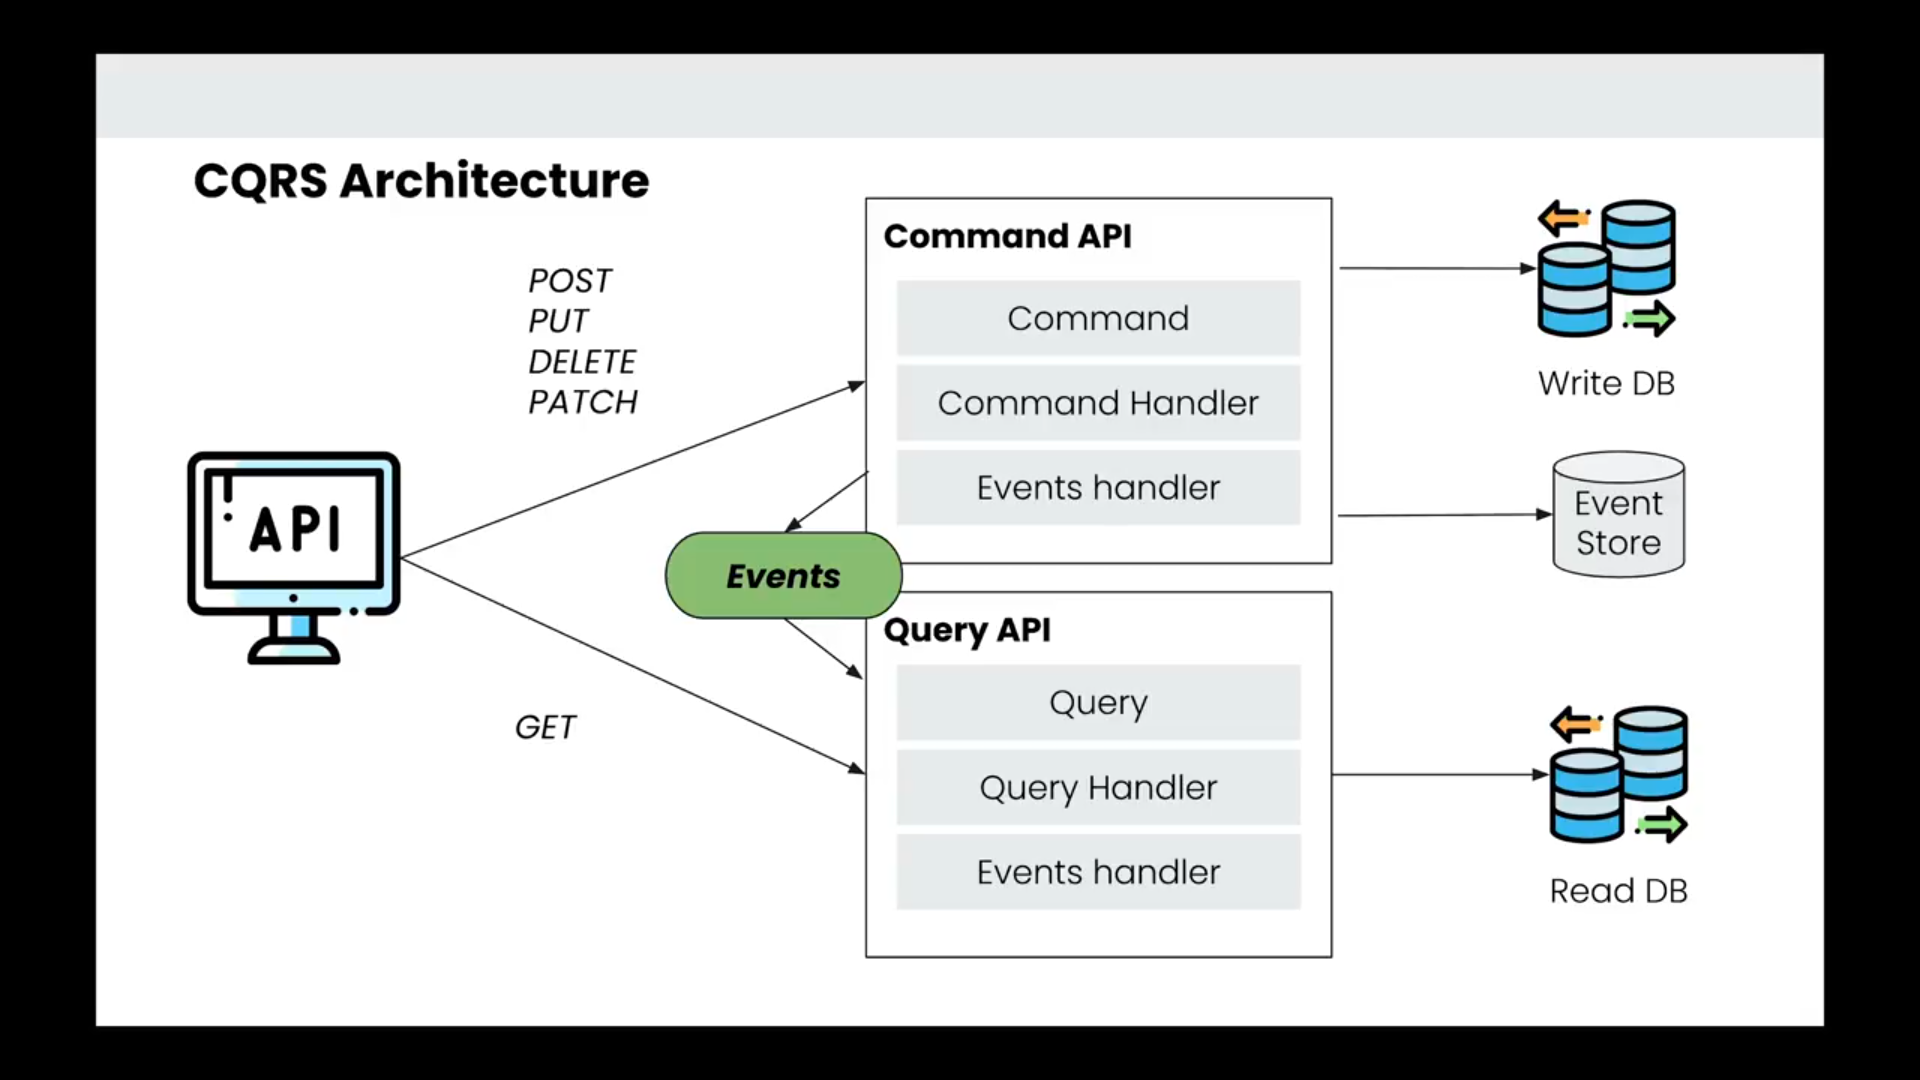
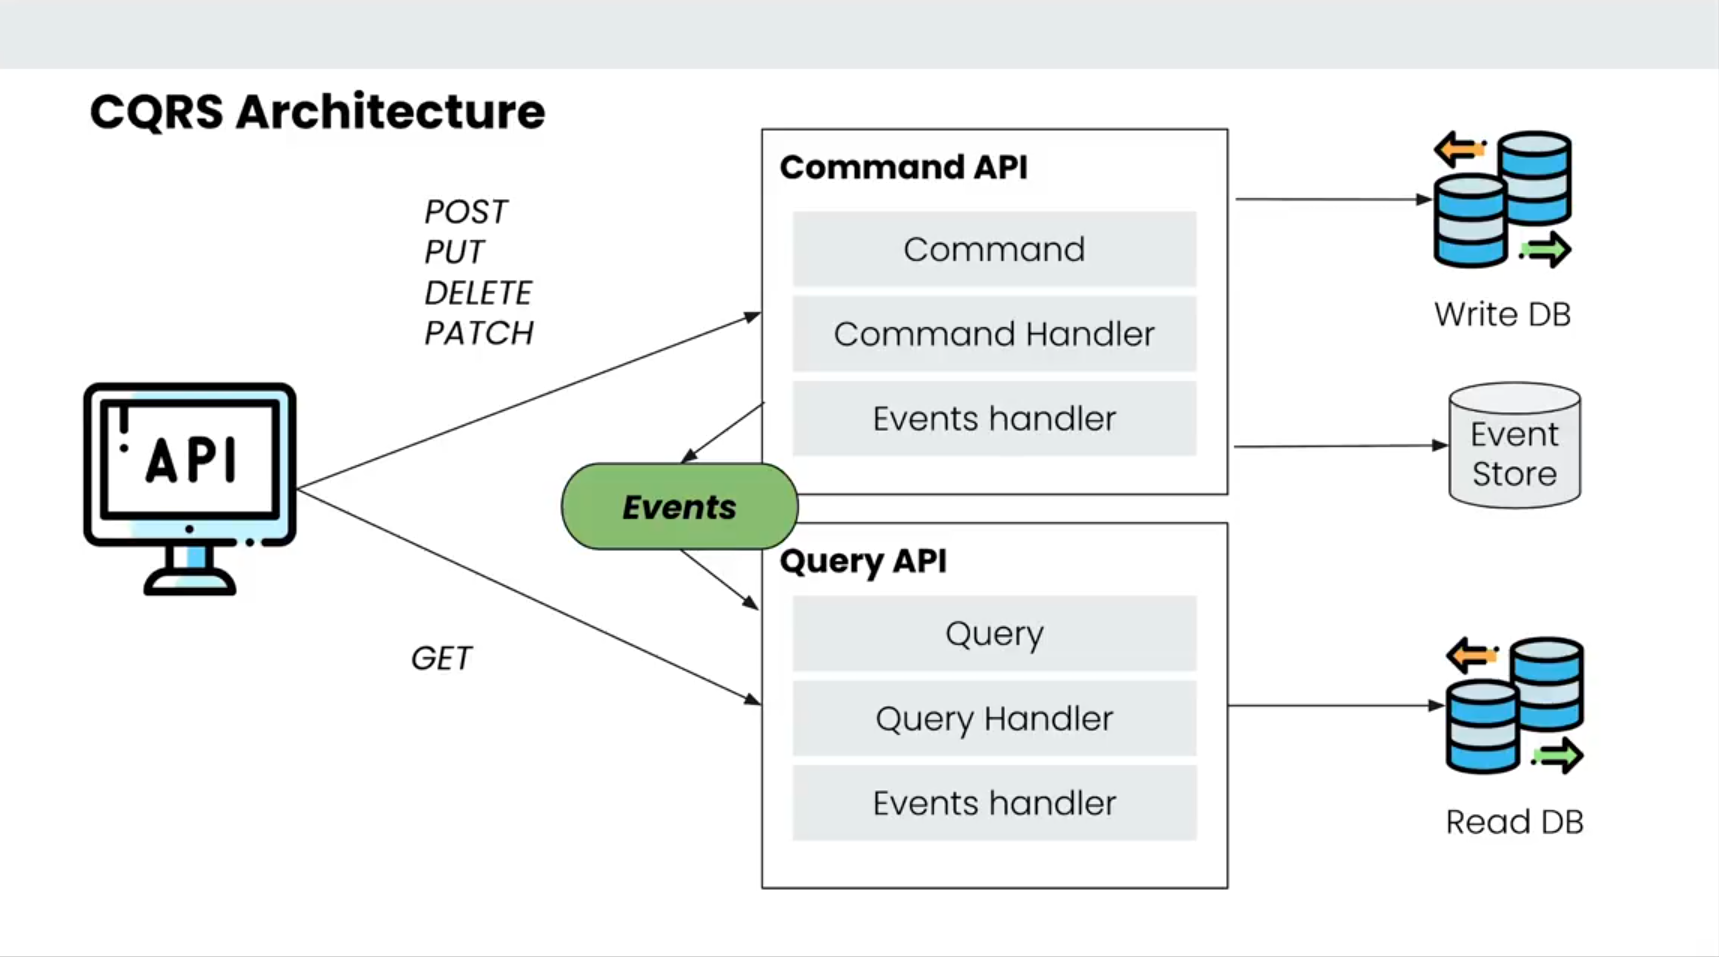
modified README.md

diff --git a/README.md b/README.md
@@ -29,7 +29,11 @@ CQRS is a design pattern that separates the models for reading and writing data,
 - **Event Store**: Persist events (using Axon’s event store)
 - **Projections**: Build and maintain read models from events
 
-![CQRS Architecture Diagram](https://raw.githubusercontent.com/bruce-mig/axon-cqrs/main/docs/cqrs-architecture.png)
+![CQRS Architecture Diagram](cqrs-api.png)
+
+## API Flow
+
+![](api-flow.png)
 
 ## Features
 
